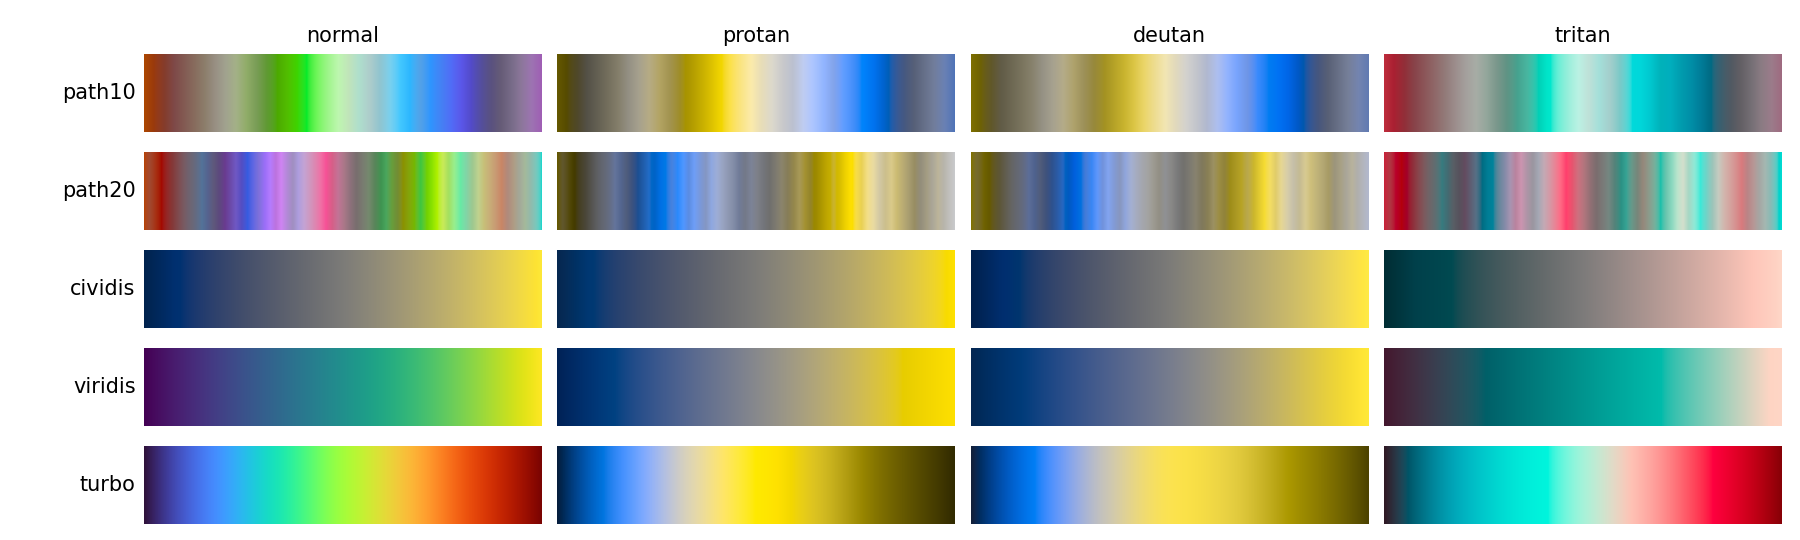
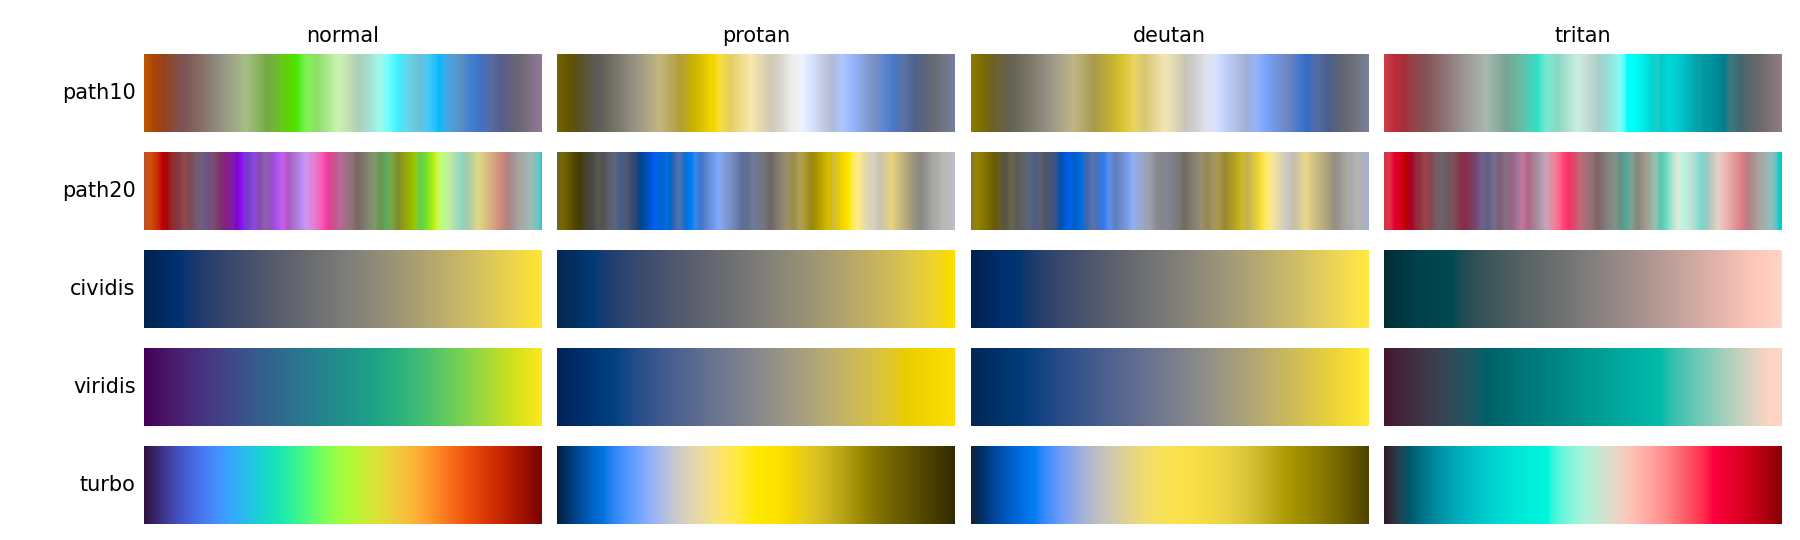
Update docs/hdrmaps.md for the rebuilt maps and the review
Corrects what separation guarantees, the J' values, the sharpest turns and
which observer has the least separation, and states that the blur is
matched for normal vision and that the construction is sensitive to its
settings.

diff --git a/docs/hdrmaps.md b/docs/hdrmaps.md
@@ -40,8 +40,8 @@ The first maps tried repeated the lightness several times over the range,
 with a steady turn of hue to tell the cycles apart (`OscillatingMap`). A
 rounded sawtooth of four cycles is 684 long, but its curve turns back on
 itself by up to 159° at each peak, so that the map reverses over a few
-steps there. Its separation is 0.1 for protan and 0.2 for deutan
-observers: to them, values a cycle apart look the same. These maps are kept
+steps there. Its separation (Section 6) is nearly zero for protan and
+deutan observers: to them, values a cycle apart look the same. These maps are kept
 in the module `maps` for comparison only.
 
 ## 3. Scaling and noise
@@ -58,7 +58,9 @@ $$D(s) = 1 / \sigma(s). \tag{1}$$
 is filtered with the 3 × 3 mask that is the outer product of (1, −2, 1) with
 itself, which removes planes and nearly removes smooth signal, and the
 median absolute response gives the noise with little influence from edges.
-For white noise σ(s) = σ(0) ‖k_s‖, where ‖k_s‖ is the root sum of squares of
+Pixels whose 3 × 3 neighbourhood is constant, or touches the least or
+greatest value of t (as clipped regions do), are left out, since regions
+without noise would pull the median towards zero. For white noise σ(s) = σ(0) ‖k_s‖, where ‖k_s‖ is the root sum of squares of
 the blur kernel.
 
 ## 4. Length of a map
@@ -79,13 +81,14 @@ value and has not been measured (Section 7).
 Equation (2) is read in either direction. For an image and a blur it gives
 the length; for a map of given length it gives the blur. For an image with
 σ(0) = 0.025 (D(0) = 40), viridis needs a blur of 0.37 pixels, path10 0.72
-and path20 1.29. For a noisier image with σ(0) = 0.07 the blurs are 0.87,
-2.0 and 3.6 pixels. A long map therefore trades resolution for contrast: it
+and path20 1.41. For a noisier image with σ(0) = 0.07 the blurs are 0.87,
+2.0 and 3.9 pixels. A long map therefore trades resolution for contrast: it
 suits an image whose detail is larger than the blur it needs.
 
 ## 5. Construction
 
-Each shipped map is made in four stages by `tools/make_hdrmaps.py`.
+Each shipped map is made in four stages by `tools/make_hdrmaps.py`, which
+gives every setting.
 
 1. Palette. MCCP chooses N colours (N = 10 or 20) with its closest pair as
    distinct as it can make them, in image mode: within the lightness floor
@@ -96,8 +99,9 @@ Each shipped map is made in four stages by `tools/make_hdrmaps.py`.
    neighbour from several starts, then 2-opt), from the darker end.
 3. Curve. The polyline through the colours is resampled to M points at
    equal steps of colour difference (M = 40 or 70).
-4. Optimisation. The points are moved to satisfy the conditions below,
-   then the map is the polyline through them, sampled at 4096 equal steps.
+4. Optimisation. The points are moved to satisfy the conditions below, in
+   several stages, and the map is the polyline through them, sampled at
+   4096 equal steps.
 
 Distances are measured in CAM16-UCS with a lightness weight of 0.77, as in
 MCCP's calibrated modes, under viewing conditions of a mid-grey surround
@@ -126,10 +130,17 @@ normal step. Equal steps for every observer at once cannot be had in
 general: a direction has two degrees of freedom, and fixed ratios of speed
 for three other observers are three conditions on it.
 
-The conditions are met by sequential linear programming in a trust region,
-each linear programme being allowed to violate them at a penalty. With ℓ
-fixed the thickness ρ is maximised; with ρ fixed the step ℓ, and so the
-length, is maximised. path10 is made with ℓ fixed, path20 with ρ = 8.
+The conditions are met by sequential linear programming in a trust region.
+Each linear programme may violate them, each condition at its own penalty,
+so that a start that does not meet them can still move. With ℓ fixed the
+thickness ρ is maximised; with ρ fixed the step ℓ, and so the length, is
+maximised. The stages of both maps begin with q_o alone (no band), which
+leaves the deficient observers' steps uneven. A narrow band asked at once
+of such a curve folds it, so path10 is brought to b = 0.1 through bands of
+0.3, 0.2 and 0.15, with ℓ fixed. path20 is held at ρ = 9 with b = 0.15,
+then lengthened with b = 0.2. The build checks that (3) and (5) hold at the
+points of each map, with the band of its last stage; the measured step
+ratios are 1.22 for path10 and 1.50 for path20, the limits of their bands.
 
 For protan and deutan observers the simulated colours lie nearly on a
 surface, spanned by lightness and a blue to yellow axis, so that in their
@@ -138,8 +149,9 @@ itself without its thickness first falling to zero, so the optimiser cannot
 undo a crossing in their view that is present in the start. For path20 the
 palette is therefore ordered by the larger of the protan and deutan
 distances, rather than by the normal ones: a path that is short in a plane
-does not cross itself. In path20 the tritan priority in (4) is raised to
-0.4, since 0.2 at ρ = 8 would guarantee a separation of only 1.6.
+does not cross itself. path10 uses MCCP's priorities in (4), 0.6 for protan
+and deutan and 0.2 for tritan. path20 uses 0.7 and 0.6, since at its
+thickness MCCP's would guarantee tritan a separation of only about 1.4.
 
 ## 6. Results
 
@@ -149,27 +161,34 @@ range, given by its ratios p95/p5 and max/min; and the separation, the
 least colour difference between parts of the map at least 10 % of the range
 apart. A perfectly uniform map has speed ratios of 1.
 
-| Map | L normal | L protan | L deutan | L tritan | worst p95/p5 | worst max/min | least separation |
-|---|---|---|---|---|---|---|---|
-| grey | 107 | 107 | 107 | 107 | 1.66 | 1.90 | 8.4 |
-| cividis | 106 | 103 | 108 | 98 | 1.39 | 1.94 | 8.3 |
-| viridis | 132 | 110 | 108 | 130 | 2.71 | 3.65 | 5.5 |
-| batlow | 138 | 124 | 128 | 118 | 2.51 | 3.12 | 7.2 |
-| CET-L20 | 164 | 141 | 139 | 134 | 4.53 | 8.15 | 6.4 |
-| turbo | 251 | 225 | 202 | 228 | 12.14 | 25.30 | 2.3 |
-| rounded sawtooth, 4 cycles | 684 | 672 | 663 | 677 | 6.50 | 8.06 | 0.1 |
-| path10 | 304 | 283 | 268 | 277 | 1.40 | 1.51 | 4.5 |
-| path20 | 546 | 427 | 409 | 626 | 1.62 | 1.83 | 3.9 |
+| Map | L normal | L protan | L deutan | L tritan | worst p95/p5 | worst max/min | least separation | J' |
+|---|---|---|---|---|---|---|---|---|
+| grey | 107 | 107 | 107 | 107 | 1.66 | 1.90 | 8.0 | 18 to 100 |
+| cividis | 106 | 103 | 108 | 98 | 1.39 | 1.94 | 8.0 | 27 to 93 |
+| viridis | 132 | 110 | 108 | 130 | 2.71 | 3.65 | 5.2 | 30 to 93 |
+| batlow | 138 | 124 | 128 | 118 | 2.51 | 3.12 | 7.1 | 26 to 91 |
+| CET-L20 | 164 | 141 | 139 | 134 | 4.53 | 8.15 | 6.3 | 32 to 96 |
+| turbo | 251 | 225 | 202 | 228 | 12.14 | 25.30 | 2.2 | 27 to 92 |
+| rounded sawtooth, 4 cycles | 684 | 672 | 663 | 677 | 6.50 | 8.06 | 0.0 | 30 to 90 |
+| path10 | 302 | 286 | 273 | 283 | 1.25 | 1.41 | 3.1 | 50 to 93 |
+| path20 | 594 | 513 | 498 | 617 | 1.52 | 1.69 | 3.8 | 46 to 94 |
 
 The worst ratio and the least separation are taken over the four observers.
-The references are cividis (Nuñez et al. 2018), viridis (Smith and van der
+J' is the lightness of CAM16-UCS under these viewing conditions, in which
+white is 100 and black 18. The table is printed by `tools/hdrmaps_table.py`;
+the rows for batlow and CET-L20 need their published tables, which are not
+distributed with cmapkit. The references are cividis (Nuñez et al. 2018), viridis (Smith and van der
 Walt 2015), batlow (Crameri et al. 2020), CET-L20 (Kovesi 2015) and turbo
 (Mikhailov 2019). For every observer, path10 is 2.5 to 2.9 times as long as
-cividis and path20 3.8 to 6.4 times, with speed ratios close to those of
-cividis and better than those of the other references. Their separations
-are lower than those of the monotone maps, whose separation is about a tenth
-of their length by construction, but above T = 3: two parts of the map 10 %
-of the range apart differ by more than the noise it shows.
+cividis and path20 4.6 to 6.3 times. path10 is more uniform than every
+reference, grey included. path20 is less uniform than cividis by p95/p5,
+though not by max/min, and more uniform than the others. Their separations are lower than those of the monotone maps,
+whose separation is about a tenth of their length by construction. A
+separation above T = 3 means that two parts of the map at least 10 % of the
+range apart differ in colour by more than one standard deviation of the
+noise as the map shows it. Single pixels from the two parts can still be
+confused; the means of regions a few pixels across differ by several
+standard deviations of their noise.
 
 In normal vision alone the same construction gives much longer maps: about
 860 at N = 50 and 1900 at N = 200. For protan and deutan observers these
@@ -190,16 +209,29 @@ protan and deutan observers, from either order of Section 5.
   cannot be read from the colour bar, and a long map is not suited to
   judging magnitudes. It is meant for seeing structure.
 - The lightness floor keeps the maps from dark colours: their J' runs from
-  about 60 to 120, against about 35 to 120 for viridis.
-- The optimum is local, and depends on every setting of the construction
-  and on the linear programming solver. The shipped maps were built with
-  scipy's HiGHS solver on Linux; `tools/make_hdrmaps.py` checks its result
-  against targets (worst p95/p5 at most 1.7, separation at least 3) and
-  writes nothing if they are missed.
-- The sharpest turn of path20 is 123° between successive points, so its
-  colour bar shows some abrupt changes of hue; path10's is 59°.
-- The tritan separation, 4.5 and 4.0, rests on the priority given to that
-  observer and is the lowest of the four.
+  about 46 to 94, against 30 to 93 for viridis.
+- The optimum is local, and sensitive to the settings of the construction
+  and to the linear programming solver: in a trial of path20 with ρ = 10 in
+  place of 9 (and slightly different priorities), the protan and deutan
+  separation fell to zero. The shipped maps were built
+  with scipy's HiGHS solver on Linux. `tools/make_hdrmaps.py` checks its
+  result against conditions (3) and (5) and against targets (worst p95/p5
+  at most 1.7, separation at least 3), and writes nothing if they are
+  missed.
+- The conditions hold at the points of the curve. Between them the map
+  follows straight segments in normal vision, which are not straight for
+  the deficient observers, so the measured speed ratios (Section 6) exceed
+  the limits of the band: max/min is 1.41 against 1.22 for path10, and 1.69
+  against 1.50 for path20.
+- The sharpest turn of path20 is 133° between successive points, so its
+  colour bar shows some abrupt changes of hue; path10's is 89°.
+- The least separations, 3.1 for path10 (tritan) and 3.8 for path20
+  (protan), are close to the target of 3 and rest on the priorities given
+  to the deficient observers.
+- `render` matches the blur to the map's length in normal vision. An
+  observer for whom the map is longer sees more noise: path20 is 617 long
+  for tritan vision against 594, so that tritan observers see the noise at
+  about 3.1 rather than 3.
 - The simulation of colour vision is a model (Machado et al. 2009); the
   maps have not been checked by colour-deficient observers.
 
@@ -212,6 +244,7 @@ hdr.names()                        # ['path10', 'path20']
 rgb, d = hdr.render(image)         # path20, blur matched to the noise at T = 3
 d                                  # sigma0, blur (pixels), length, noise shown
 rgb, d = hdr.render(image, "path10", blur=0)   # no blur
+rgb, d = hdr.render(image, "viridis")          # any matplotlib map, matched blur
 
 cmap = hdr.colormap("path20")      # a matplotlib colormap
 hdr.assess(hdr.path_map("path20").lut)         # measures of Section 6
